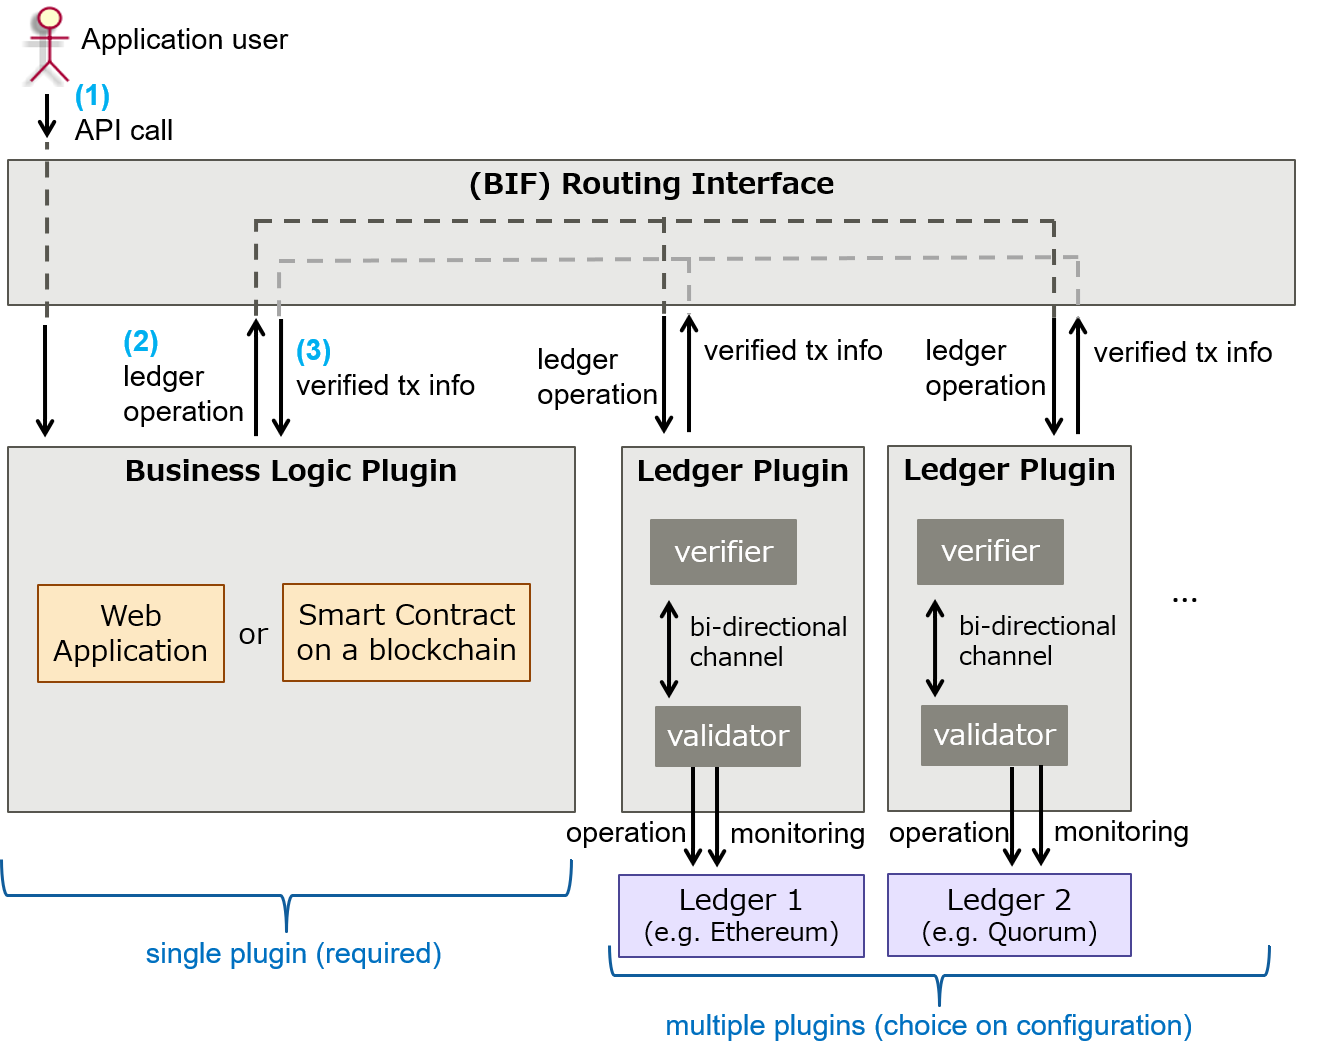
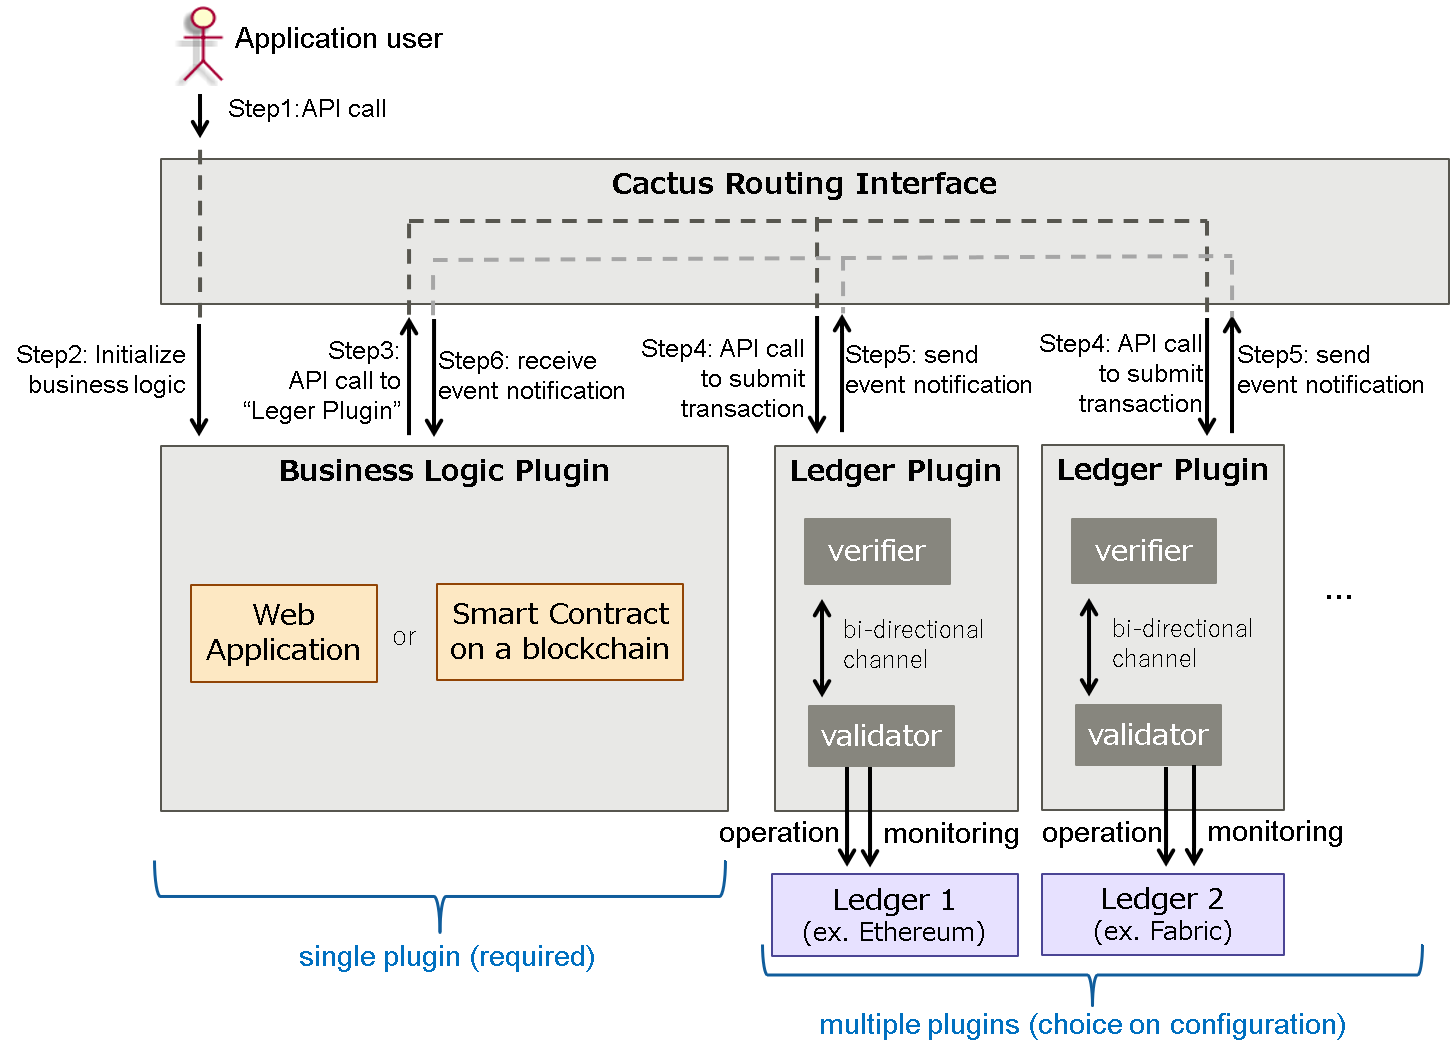
docs(whitepaper): rewrite descriptions for basic flow with architecture diagram

diff --git a/whitepaper/whitepaper.md b/whitepaper/whitepaper.md
@@ -369,11 +369,9 @@ A newly joined consortium member does not have to participate in every component
 
 # 4. Architecture
 
-## 4.1 Interworking patterns
+## 4.1 Integration patterns
 
-### 4.1.1 Interworking patterns list
-
-Hyperledger Cactus has several interworking patterns as the following.
+Hyperledger Cactus has several integration patterns as the following.
 
 - Note: In the following description, **Value (V)** means numerical assets (e.g. money). **Data (D)** means non-numerical assets (e.g. ownership proof). Ledger 1 is source ledger, Ledger 2 is destination ledger.
 
@@ -385,7 +383,7 @@ Hyperledger Cactus has several interworking patterns as the following.
 | 4.  | data transfer       | D -> D  | check if all D1 is copied on ledger 2 <br> (as D1 is data on ledger 1, D2 is data on ledger 2) |
 | 5.  | data merge          | D <-> D | check if D1 = D2 as a result <br> (as D1 is data on ledger 1, D2 is data on ledger 2)          |
 
-### 4.2 Interworking architecture
+## 4.2 System architecture and basic flow
 
 Hyperledger Cactus will provide integrated service(s) by executing ledger operations across multiple blockchain ledgers. The execution of operations are controlled by the module of Hyperledger Cactus which will be provided by vendors as the single Hyperledger Cactus Business Logic plugin.
 The supported blockchain platforms by Hyperledger Cactus can be added by implementing new Hyperledger Cactus Ledger plugin.
@@ -396,17 +394,22 @@ The overall architecture is as the following figure.
 <img src="./architecture-with-plugin-and-routing.png" width="700">
 
 Each entity is as follows:
+- **Application user**: The entity submits API calls to "Cactus Routing Interface". 
 - **Business Logic Plugin**: The entity executes business logic and provide integration services that are connected with multiple blockchains. The entity is composed by web application or smart contract on a blockchain. The entity is a single plugin and required for executing Hyperledger Cactus applications.
 - **Ledger Plugin**: The entity communicates Business Logic Plugin with each ledger.  The entity is composed by a validator and a verifier as follows. The entity(s) is(are) chosen from multiple plugins on configuration.
-- **Validator**: The entity verifies transactions on the connected ledger and makes signatures for requesting to the verifier. The entity connects the verifier using a bi-directional channel.
-- **Verifier**: The entity verifies the signatures from the validator. The entity connects the validator using a bi-directional channel.
-- **Cactus Routing Interface**: The entity is a routing service between Business Logic Plugin and  Ledger Plugin(s). The entity is also a routing service between Business Logic Plugin and API calls from application users.
-- **Ledger-n**: Ledger (e.g. Ethereum, Quorum, Hyperledger Fabric, ...)
+- **Validator**: The entity monitors transaction records of Ledger operation, and it determines the result(success, failed, timeouted) from the transaction records. 
+Validator ensure the determined result with attaching digital signature with "Validator key" which can be verified by "Verifier".
+- **Verifier**: The entity accepts only sucussfully verified operation results by verifying the digital signature of the validator. Note that "Validator" is apart from "Verifier" over a bi-directional channel.
+- **Cactus Routing Interface**: The entity is a routing service between "Business Logic Plugin" and  "Ledger Plugin(s)". The entity is also a routing service between Business Logic Plugin and API calls from "Application user(s)".
+- **Ledger-n**: DLT platforms(e.g. Ethereum, Quorum, Hyperledger Fabric, ...)
 
 The execution steps are described as follows:
-- **Step 1**: Application user(s) makes an API call for operations on a single ledger or between multiple ledgers.  The API call is sent to Business Logic Plugin via Hyperledger Cactus Routing Interface.
-- **Step 2**: Business Logic Plugin requests ledger operation(s) to Ledger Plugin(s) via Hyperledger Cactus Routing Interface.  Ledger plugin requests the operation(s) to its connected ledger. The operation is settled on the ledger.
-- **Step 3**: The Ledger Plugin is monitoring transaction data on its connected ledger.  If Ledger Plugin receives transaction data related with the operation(s) of Step 2, Ledger Plugin verifies the transaction and send the verified transaction information to Business Logic Plugin via Hyperledger Cactus Routing Interface, then Business Logic Plugin receives this information and records it.
+- **Step 1**: "Application user(s)" submits an API call to "Cactus routing interface".  
+- **Step 2**: The API call is internally routed to "Business Logic Plugin" by "Cactus Routing Interface" for initiating associated business logic. 
+Then, "Business Logic Plugin" determines required ledger operation(s) to complete or abort a business logic. 
+- **Step 3**" "Business Logic Plugin" submits API calls to request operations on "Ledger(s)" wrapped with "Ledger Plugin(s)". Each API call will be routed to designated "Ledger Plugin" by "Routing Interface". 
+- **Step 4**: "Ledger Plugin" sends an event notification to "Business Logic Plugin" via "Cactus Routing Interface", when its sub-component "Verifier" detect an event regarding requested ledger operation to "Ledger".
+- **Step 5**: "Business Logic Plugin" receives a message from "Ledger Plugin" and determines completion or continuous of the business logic. When the business logic requires to continuous operations go to "Step 3" ,or end the process.
 
 <div style="page-break-after: always; visibility: hidden"><!-- \pagebreak --></div>
 
